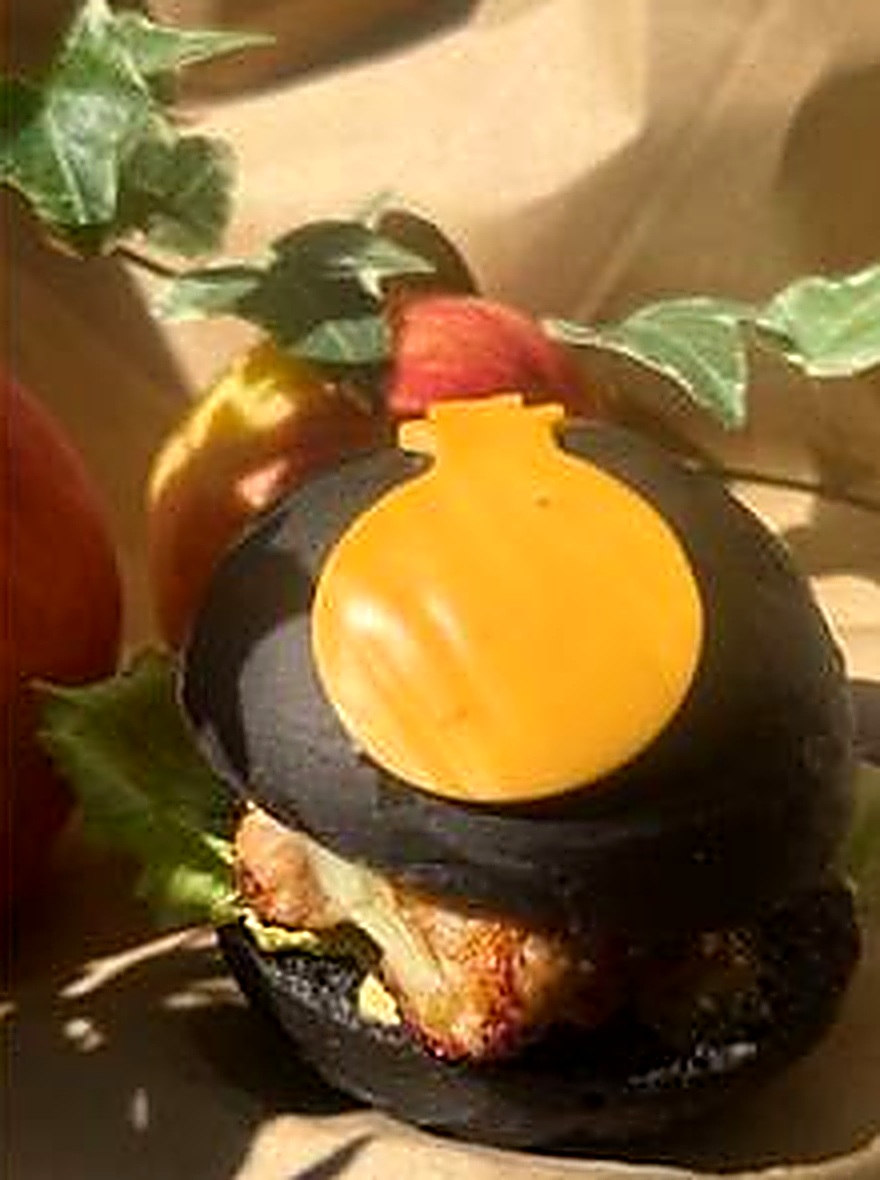
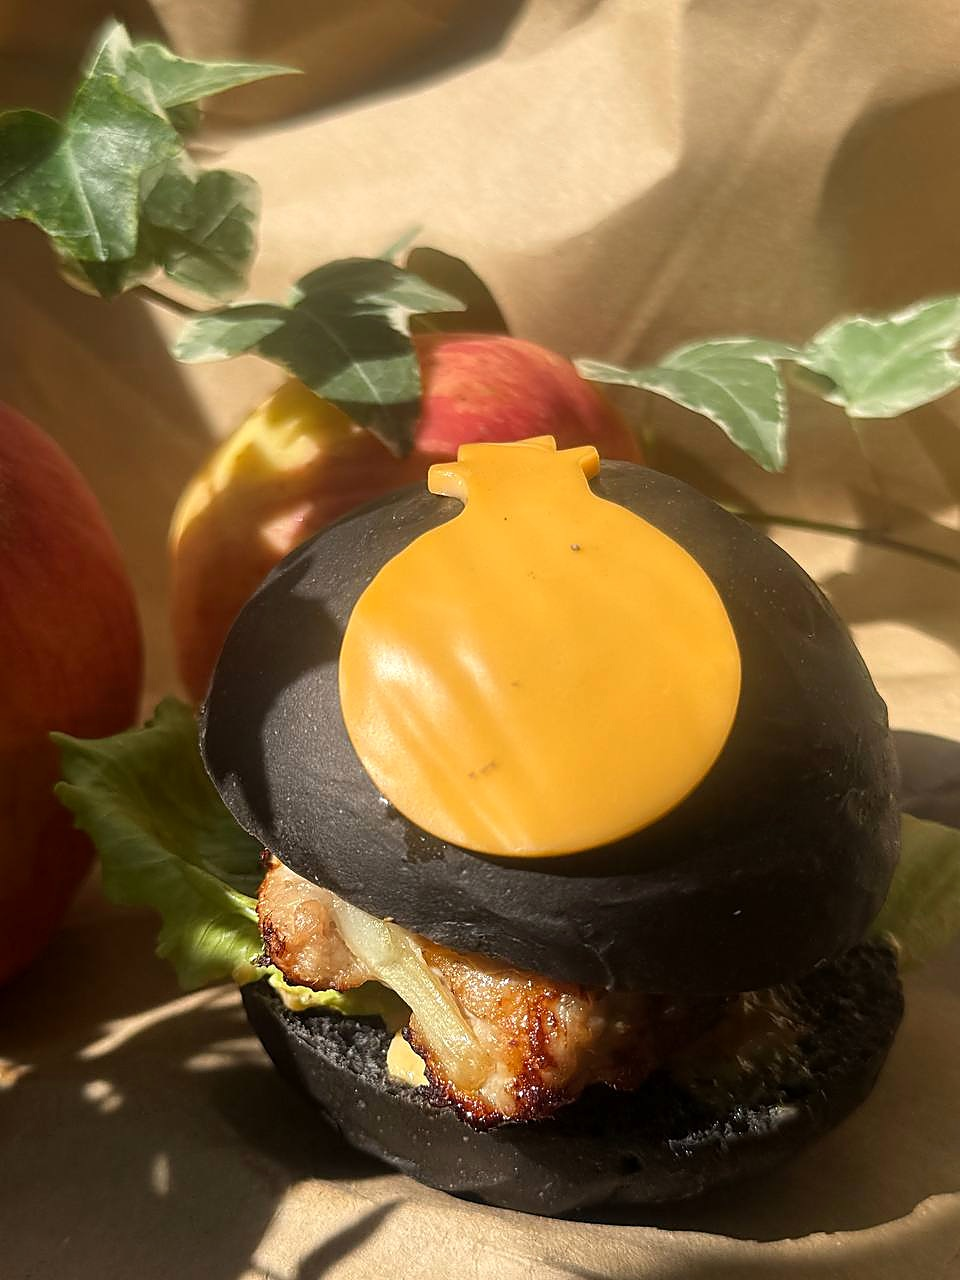
요리 사진을 사모님이 새로 보내주신 고화질 원본 버거 사진으로 교체

diff --git a/index.html b/index.html
@@ -124,7 +124,7 @@
     <span class="kicker">요리방 · 진짜 만드는 시간</span>
     <h3>제철 사과로 빚어내는 자연스러운 단맛</h3>
     <div class="note" style="margin-bottom:10px">할로윈 주간이 지나도, 그 분위기는 까만 블랙번 버거로 계속 이어져요 🎃</div>
-    <div class="photo"><img src="img/food_child_cook.jpg" alt="사과 패티와 까만 블랙번으로 완성한 할로윈 버거" width="660" height="885"></div>
+    <div class="photo"><img src="img/food_child_cook.jpg" alt="사과 패티와 까만 블랙번으로 완성한 할로윈 버거" width="960" height="1280"></div>
     <div class="note">※ 유아가 만든 요리는 개별 포장해 드려요 · 컨텐츠 내용은 진행 상황에 따라 변경될 수 있어요</div>
     <div class="tags">
       <div class="tag"><b>사과 블랙번버거</b>사과를 넣은 패티에 까만 블랙번을 더한 할로윈 버거</div>
